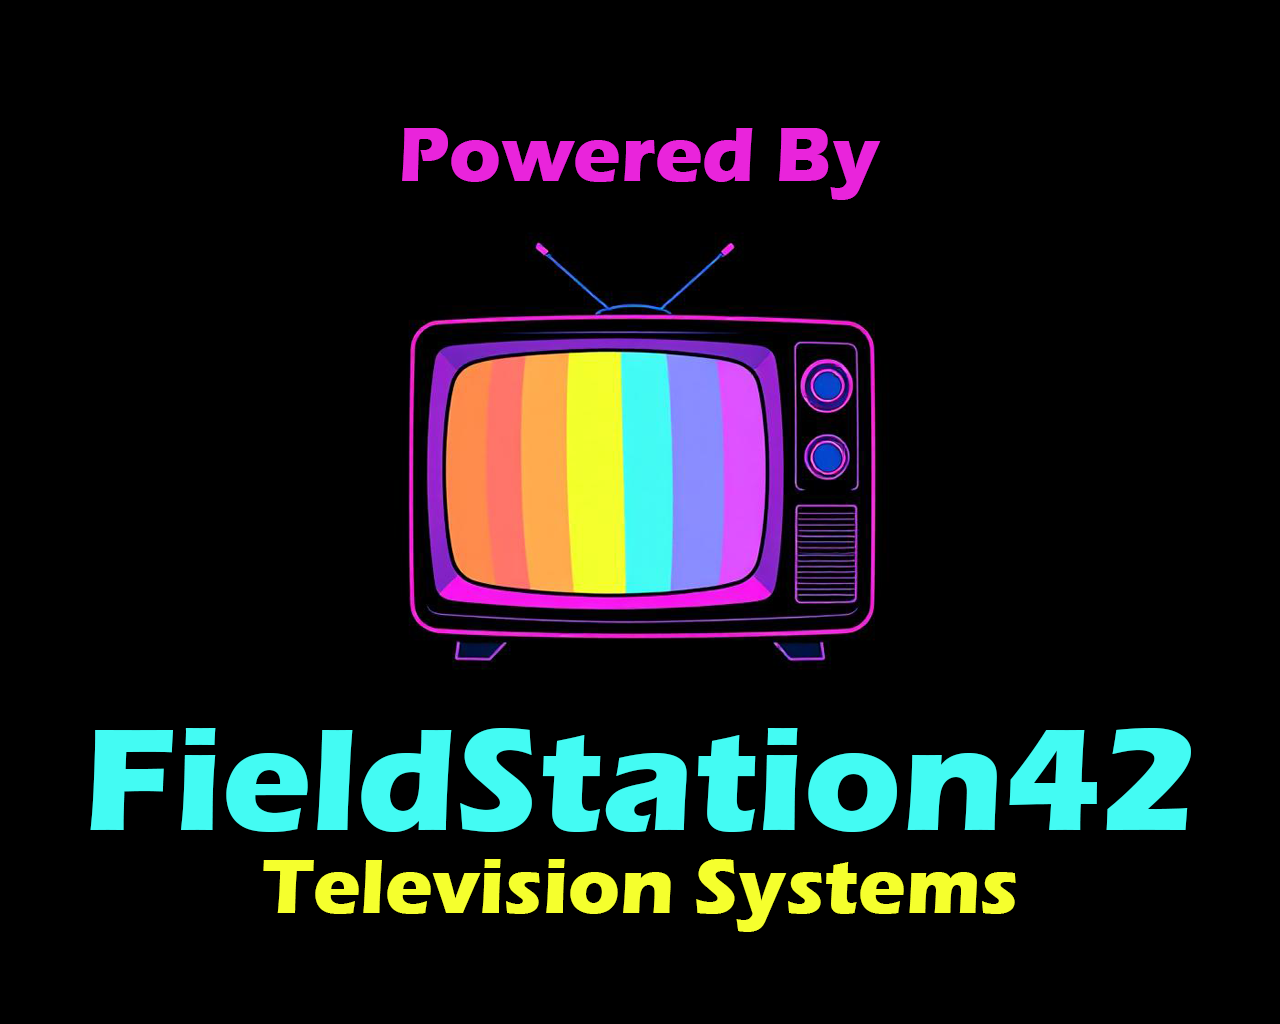
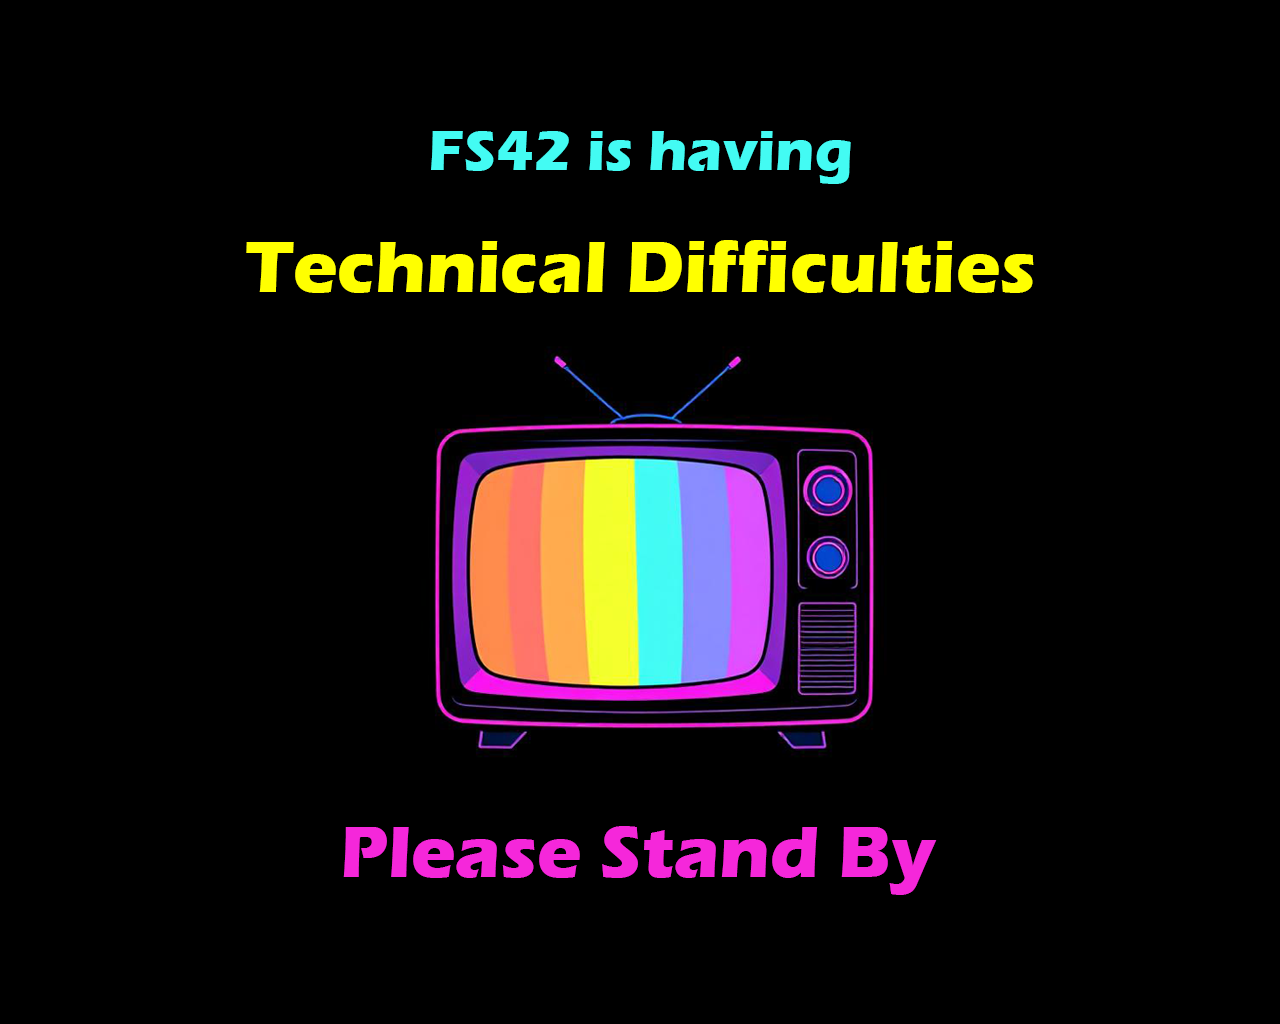
Schedule BRB image during station gaps.

Changed region(s): [[0.0625, 0.2188, 0.9375, 0.9062], [0.3125, 0.125, 0.6875, 0.1875]]

diff --git a/fs42/catalog.py b/fs42/catalog.py
@@ -47,7 +47,7 @@ class ShowCatalog:
         self.tags = []
 
         self.__fluid_builder = None
-        self.min_gap = 10
+        self.min_gap = 3
         if rebuild_catalog:
             self.build_catalog()
         elif load:
@@ -502,15 +502,20 @@ class ShowCatalog:
                     candidate = self.find_bump(remaining, when, "fill")
             except MatchingContentNotFound:
                 if remaining > self.min_gap:
-                    self._l.debug(f"Could not find matching content for {remaining} seconds")
+                    self._l.debug(
+                        f"Could not find matching content for {remaining} seconds - will attempt to fill with BRB"
+                    )
                     pass
             if candidate:
                 additional_reels.append(candidate)
                 remaining -= candidate.duration
             else:
+                # If BRB is enabled, we'll use that to fill the remaining gap
+                if remaining > self.min_gap and "be_right_back_media" in self.config:
+                    brb = CatalogEntry(self.config["be_right_back_media"], duration=remaining, tag="brb")
+                    additional_reels.append(brb)
                 keep_going = False
                 remaining = 0
-
 
         blocks.append(ReelBlock(None, additional_reels, None))
 

diff --git a/fs42/slot_reader.py b/fs42/slot_reader.py
@@ -3,9 +3,6 @@ import copy
 
 import random
 from fs42 import timings
-import logging
-
-
 
 class SlotReader:
     @staticmethod
@@ -62,7 +59,6 @@ class SlotReader:
     def smooth_tags(conf):
         # this function smooths tags through slot boundaries - so if not specified will use previous slots tag.
         last_tag = None
-        logging.getLogger("smooth_tags").debug(f"{conf}")
         smoothed = copy.deepcopy(conf)
         for day_index in timings.DAYS:
             for slot_index in timings.OPERATING_HOURS:

diff --git a/field_player.py b/field_player.py
@@ -156,7 +156,7 @@ def main_loop(transition_fn):
             stuck_timer += 1
 
             # only put it up once after 2 seconds of being stuck
-            if stuck_timer == 2 and "standby_image" in channel_conf:
+            if stuck_timer >= 2 and "standby_image" in channel_conf:
                 player.play_file(channel_conf["standby_image"])
             current_title_on_stuck = player.get_current_title()
             update_status_socket(

diff --git a/fs42/station_manager.py b/fs42/station_manager.py
@@ -21,7 +21,7 @@ class StationManager(object):
         "break_duration": 120,
     }
 
-    __filechecks = ["sign_off_video", "off_air_video", "standby_image"]
+    __filechecks = ["sign_off_video", "off_air_video", "standby_image", "be_right_back_media"]
 
     # public visible - be careful
     stations = []
